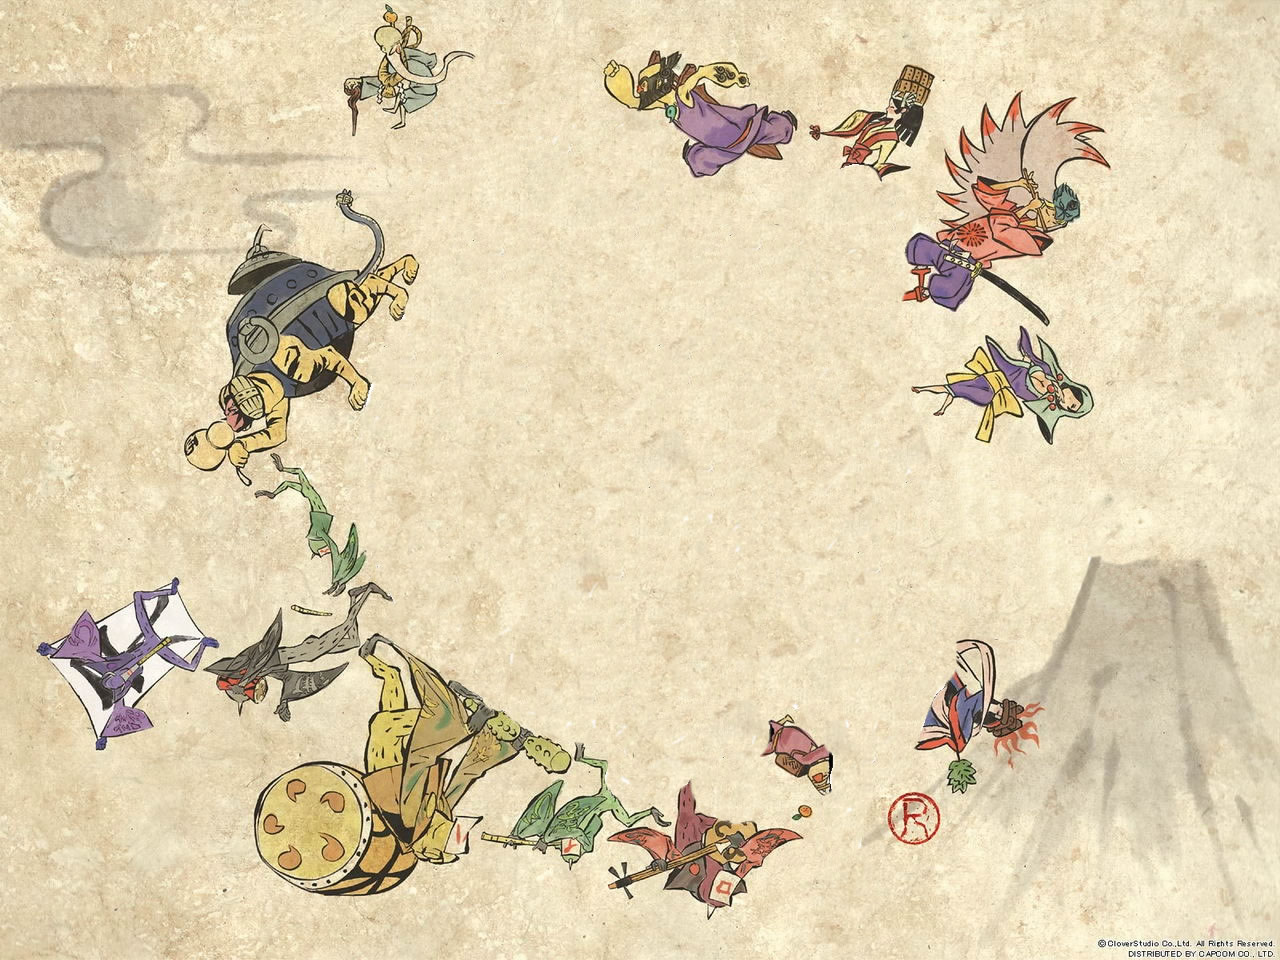
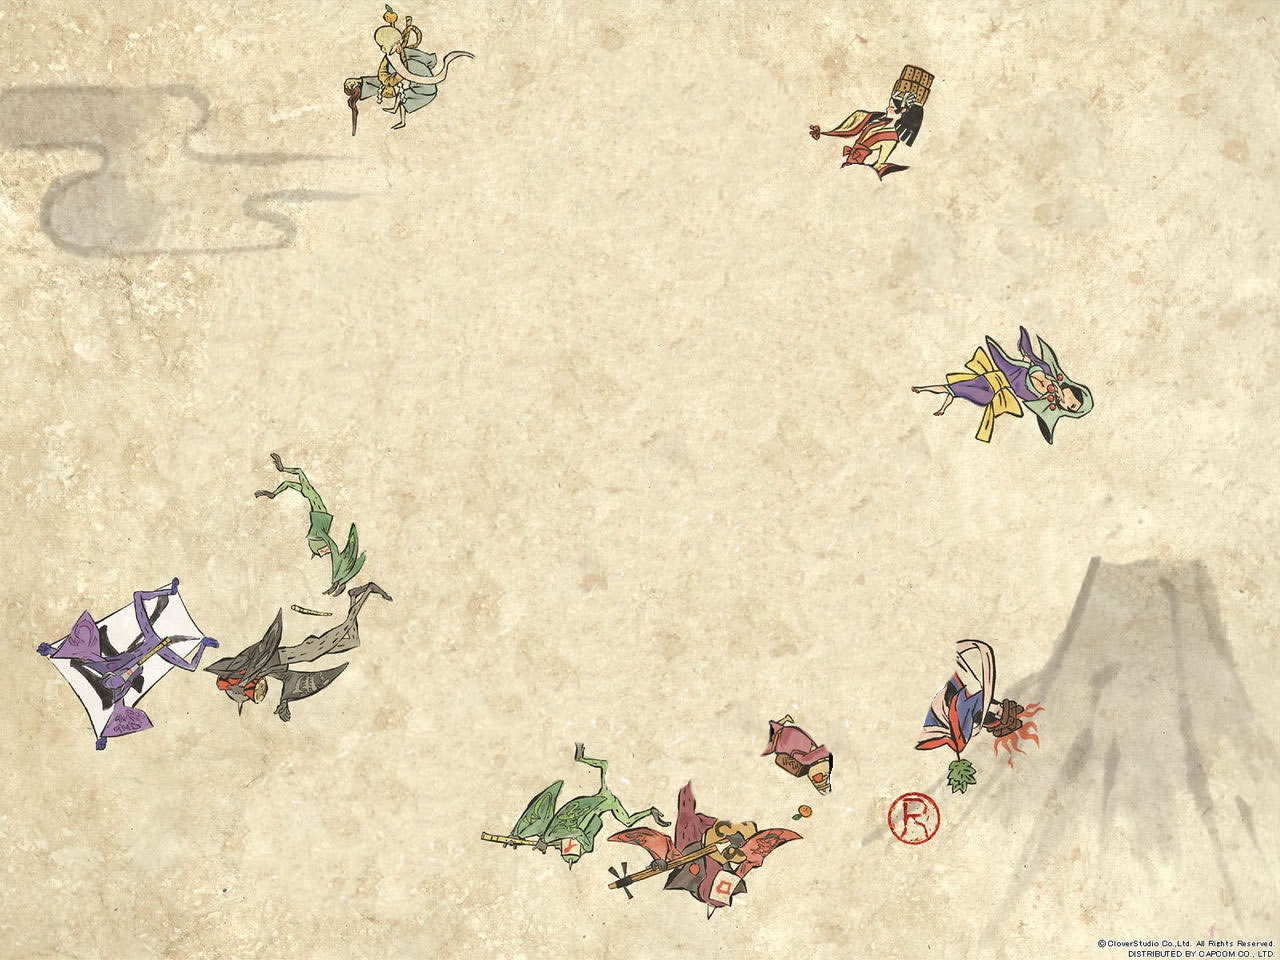
More elements for parallax

diff --git a/public/assets/css/parallax.css b/public/assets/css/parallax.css
@@ -3,6 +3,76 @@
     padding: 0;
 }
 
+.layer-parallax {
+    background-size: cover;
+    background-repeat: no-repeat;
+    background-position: center;
+}
+
+.layer-background {
+    background-image: url("../../assets/img/okami-background.jpg");
+    margin: auto;
+    min-height: 45em;
+    max-width: 60em;
+}
+
+.layer-title {
+    background-image: url(../../assets/img/okami-title.png);
+    height: 38em;
+    margin-left: 44.8%;
+    margin-top: 5.3%;
+    width: 27em;
+}
+
+.layer-okami {
+    background-image: url(../../assets/img/okami-okami.png);
+    height: 7em;
+    margin-left: 44%;
+    width: 7em;
+    margin-top: 3%;
+}
+
+.layer-oki {
+    background-image: url(../../assets/img/okami-oki.png);
+    margin-left: 61%;
+    margin-top: 16.3%;
+    width: 8.7em;
+    height: 7.4em;
+}
+
+.layer-susano {
+    background-image: url(../../assets/img/okami-susano.png);
+    margin-top: 2%;
+    margin-left: 50%;
+    height: 6em;
+    width: 9em;
+}
+
+.layer-waka {
+    background-image: url(../../assets/img/okami-waka.png);
+    margin-left: 60.5%;
+    margin-top: 4.5%;
+    height: 9em;
+    width: 8em;
+}
+
+.layer-boss-wtf1 {
+    background-image: url(../../assets/img/okami-boss-wtf1.png);
+    margin-left: 36.4%;
+    margin-top: 5.4%;
+    height: 13em;
+    width: 10em;
+}
+
+.layer-boss-wtf2 {
+    background-image: url(../../assets/img/okami-boss-wtf2.png);
+    margin-top: 22.5%;
+    margin-left: 39%;
+    width: 13em;
+    height: 11em;
+}
+
+/*
 .layer-background {
     width: 100%;
 }
@@ -21,3 +91,4 @@
     left: 970px !important;
     top: 445px !important;
 }
+*/
